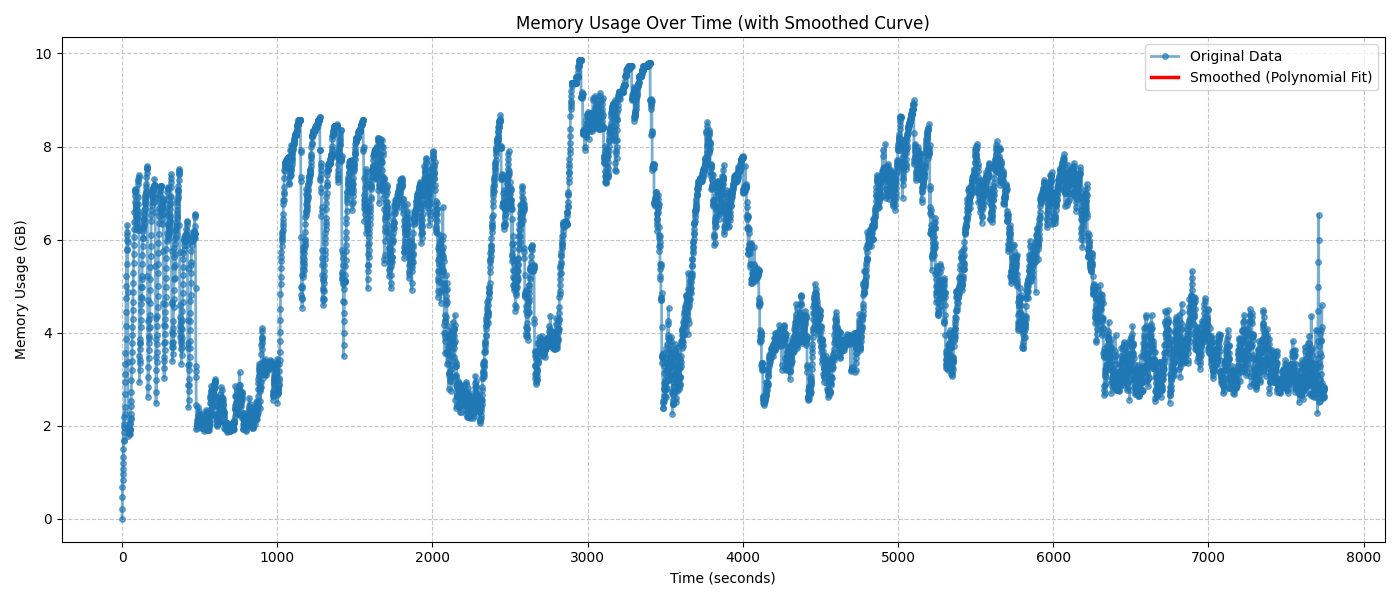
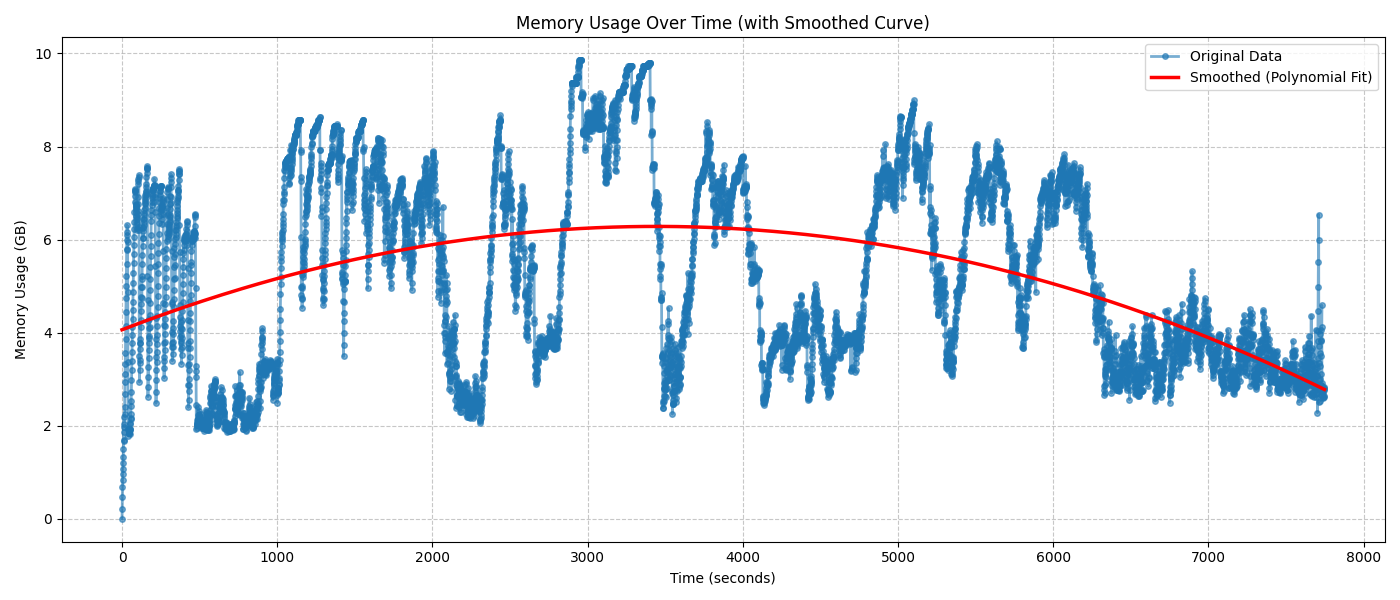
fixing issue with smoothed graph

diff --git a/OA-analysis-report/oaAnalysis.py b/OA-analysis-report/oaAnalysis.py
@@ -336,6 +336,14 @@ class PerformanceAggregator:
         # Convert to DataFrame and save
         result_df = pd.DataFrame(aggregated_data)
 
+        # Remove rows where CPU_Percent or Memory_GB are NaN
+        result_df = result_df.dropna(subset=["CPU_Percent", "Memory_GB"])
+
+        # Remove rows where all three metrics are 0
+        result_df = result_df[
+            ~((result_df["CPU_Percent"] == 0) & (result_df["Memory_GB"] == 0))
+        ]
+
         # Save to CSV
         output_path = os.path.join(self.report_dir, PERFORMANCE_RESOURCE_STATS_CSV)
         result_df.to_csv(output_path, index=False)

diff --git a/OA-analysis-report/perfomanceAnalysis/perfomanceAnalysis.py b/OA-analysis-report/perfomanceAnalysis/perfomanceAnalysis.py
@@ -48,13 +48,6 @@ class PerformanceAnalyzer:
         resource_path = os.path.join(self.output_dir, PERFORMANCE_RESOURCE_STATS_CSV)
         if os.path.exists(resource_path):
             self.perf_resource = pd.read_csv(resource_path)
-            self.perf_resource = self.perf_resource[
-                ~(
-                    (self.perf_resource["Time_Sec"] == 0)
-                    & (self.perf_resource["CPU_Percent"] == 0)
-                    & (self.perf_resource["Memory_GB"] == 0)
-                )
-            ]
 
     def _print_performance_stats(self):
         """Print performance statistics"""
